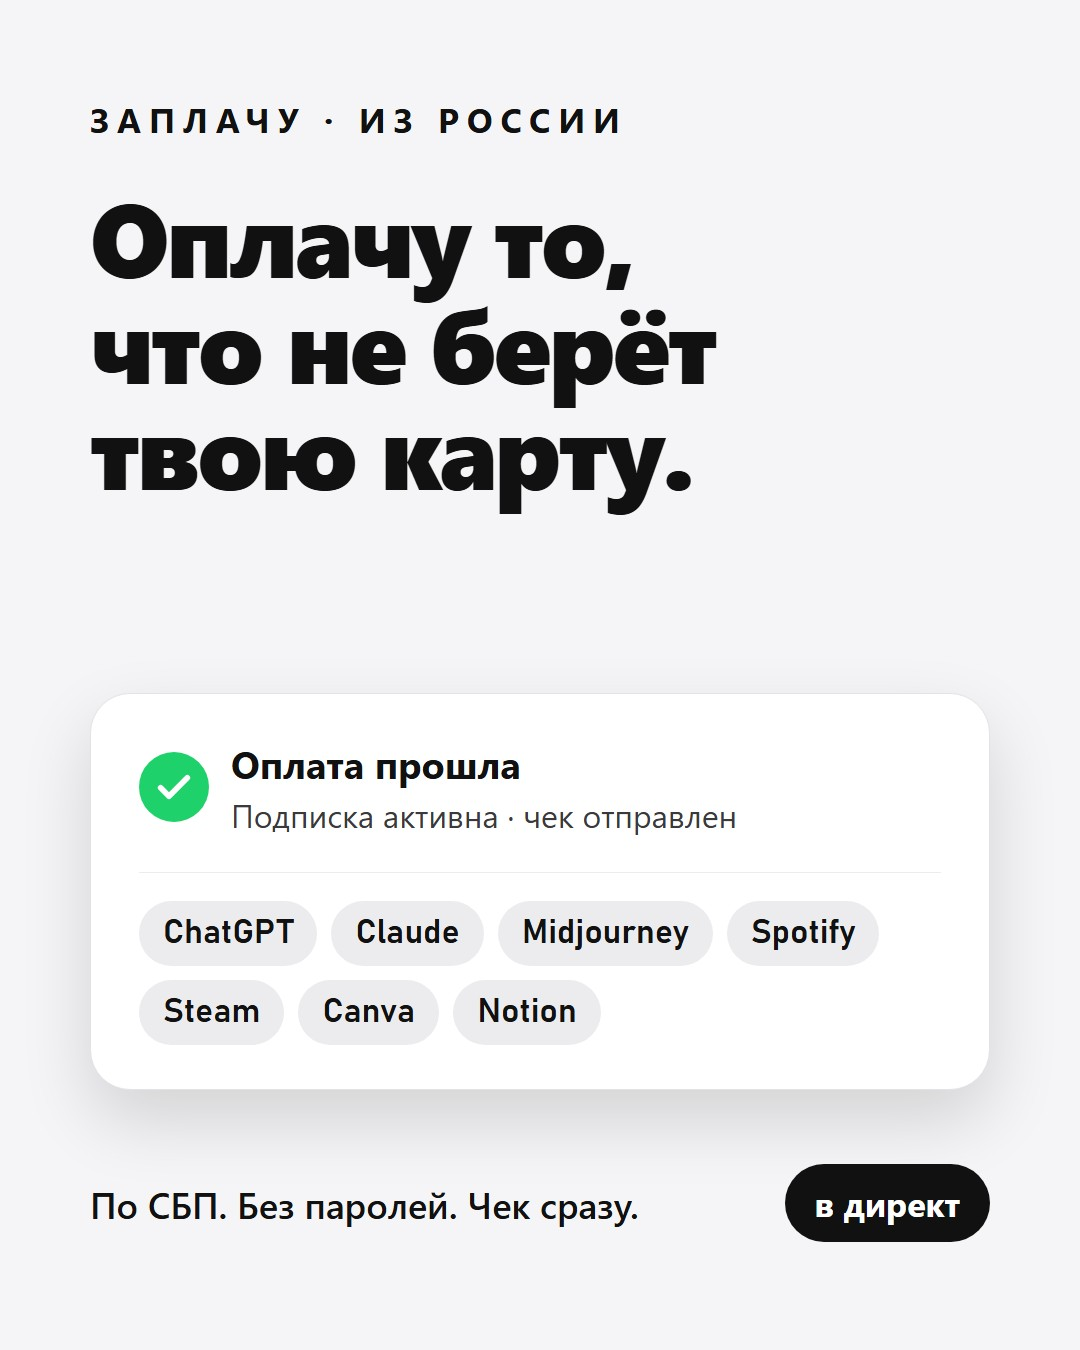
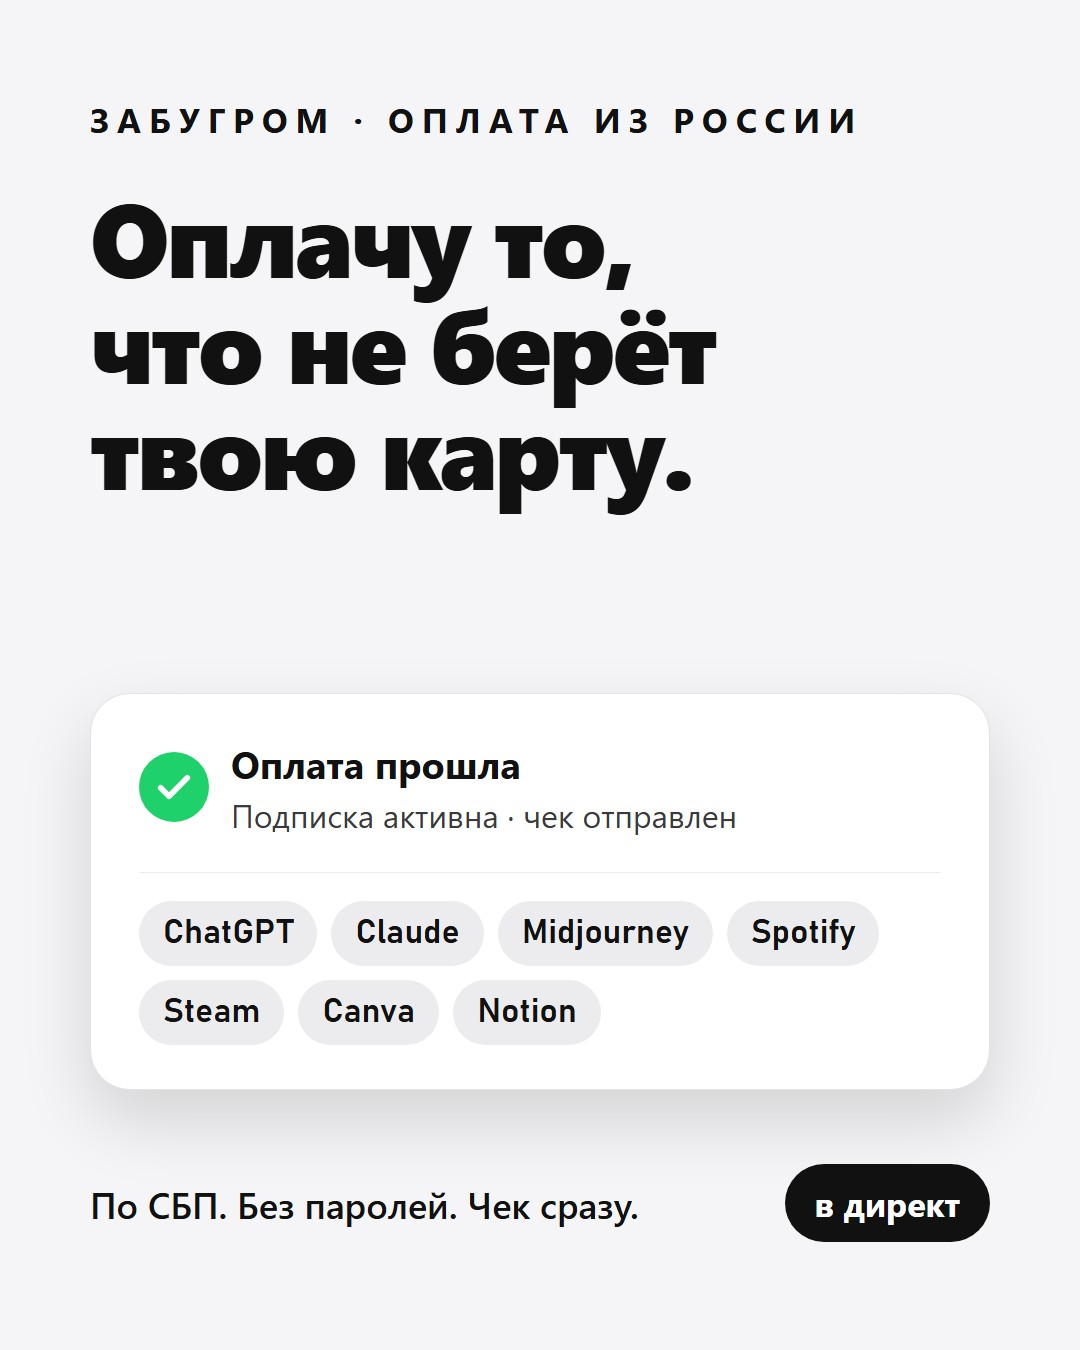
threads100: Заплачу -> Забугром

Changed region(s): [[0.3361, 0.0622, 0.7944, 0.1244], [0.1528, 0.0622, 0.3056, 0.1244]]

diff --git a/threads100/index.html b/threads100/index.html
@@ -28,7 +28,7 @@ pre{white-space:pre-wrap;word-wrap:break-word;font:inherit;font-size:16px;line-h
 .toast.on{opacity:1;transform:translate(-50%,0)}
 .reset{display:block;margin:30px auto 0;border:0;background:none;color:#8a8a8f;font:inherit;font-size:12px;text-decoration:underline;cursor:pointer}
 .pic{margin:14px 0 0}.pic img{display:block;width:100%;max-width:420px;border-radius:12px;background:#eee}.pic figcaption{display:flex;flex-wrap:wrap;gap:6px 14px;margin-top:8px;font-size:12px;color:#6e6e73}.pic .lb{text-transform:uppercase;letter-spacing:.08em;font-size:11px}.pic a{color:#111}.pic .ai{color:#b4562b}.pic .dl{font-weight:600}.bio{font-size:13px;color:#6e6e73;margin:0 0 16px;max-width:560px}.brand{display:grid;grid-template-columns:220px 260px 1fr;gap:24px;align-items:start;margin:8px 0 24px}.brand figure{margin:0}.brand img{display:block;width:100%;border-radius:12px}.brand .ava{border-radius:50%}.brand figcaption{font-size:12px;color:#6e6e73;margin-top:8px}.brand .dl{color:#111;font-weight:600}.bt .k{font-size:11px;letter-spacing:.1em;text-transform:uppercase;color:#6e6e73;margin:12px 0 4px}.bt .k:first-child{margin-top:0}.bt p{margin:0;font-size:14px;line-height:1.45;max-width:560px}.bt small{color:#6e6e73}.biop{margin:0 0 8px}.plan{margin:0 0 24px}.plan summary{cursor:pointer;font-weight:600;margin-bottom:10px}.plan table{border-collapse:collapse;width:100%;max-width:720px;font-size:13px}.plan td,.plan th{padding:6px 10px 6px 0;border-bottom:1px solid #e5e5ea;text-align:left;vertical-align:top}.plan th{font-size:11px;text-transform:uppercase;letter-spacing:.08em;color:#6e6e73}.plan a{color:#111}@media(max-width:760px){.brand{grid-template-columns:1fr 1fr}.brand .bt{grid-column:1/-1}}</style></head><body>
-<header><div class="top"><h1>Threads · посты</h1><div class="cnt">690 постов · 9 аккаунтов</div></div><nav><button class="tab" data-t="creepy">Минус второй<span>30</span></button><button class="tab" data-t="pay">Заплачу<span>30</span></button><button class="tab" data-t="car">Китаец с пробегом<span>30</span></button><button class="tab" data-t="popolam">Пополам<span>100</span></button><button class="tab" data-t="maya">Майя<span>100</span></button><button class="tab" data-t="studio">Fines Studio<span>100</span></button><button class="tab" data-t="personal">Личный<span>100</span></button><button class="tab" data-t="choiz">The Rude Store<span>100</span></button><button class="tab" data-t="gta">GTA VI<span>100</span></button></nav></header>
+<header><div class="top"><h1>Threads · посты</h1><div class="cnt">690 постов · 9 аккаунтов</div></div><nav><button class="tab" data-t="creepy">Минус второй<span>30</span></button><button class="tab" data-t="pay">Забугром<span>30</span></button><button class="tab" data-t="car">Китаец с пробегом<span>30</span></button><button class="tab" data-t="popolam">Пополам<span>100</span></button><button class="tab" data-t="maya">Майя<span>100</span></button><button class="tab" data-t="studio">Fines Studio<span>100</span></button><button class="tab" data-t="personal">Личный<span>100</span></button><button class="tab" data-t="choiz">The Rude Store<span>100</span></button><button class="tab" data-t="gta">GTA VI<span>100</span></button></nav></header>
 <main><section class="acc" data-t="creepy"><h2>Минус второй <small>@minus_vtoroy</small></h2><div class="brand"><figure><img src="brand/creepy_ava.jpg" class="ava" alt=""><figcaption>Аватарка 1080×1080 · <a class="dl" href="brand/creepy_ava.jpg" download>Скачать</a></figcaption></figure><figure><img src="brand/creepy_cover.jpg" class="cov" alt=""><figcaption>Первый пост-закреп 1080×1350 · <a class="dl" href="brand/creepy_cover.jpg" download>Скачать</a></figcaption></figure><div class="bt"><div class="k">Имя</div><p>Минус второй</p><div class="k">Ник</div><p>@minus_vtoroy <small>(если занят, добавь точку или _ в середину)</small></p><div class="k">Шапка</div><pre class="biop">Истории, после которых закрываешь дверь на два замка.
 Художественные. Но могли случиться с тобой.
 Новая — каждый вечер в 23:00.</pre><button class="cp cpb">Скопировать шапку</button><div class="k">Стиль</div><p>Чёрный, бетон, один красный акцент (#ff2a1a) — цифра «−2», как кнопка лифта в подземном паркинге. Фото: холодный свет, пустые подъезды, двери, лифты. Без людей и лиц.</p><div class="k">Ритм</div><p>1 пост в день, 23:00. Истории идут от сильных к слабым, каждые 3–4 дня вопрос аудитории. Длинные истории продолжать ответом в своей же ветке. На вопрос «это правда?» отвечать честно: история художественная.</p></div></div><details class="plan" open><summary>Контент-план на 30 дней (30 постов)</summary><table><tr><th>День</th><th>Время</th><th>Формат</th><th>Тема</th></tr><tr><td>1</td><td>23:00</td><td><b style="color:#ff2a1a">история</b></td><td><a href="#creepy-1">Сообщение от себя</a></td></tr><tr><td>2</td><td>23:00</td><td><b style="color:#ff2a1a">история</b></td><td><a href="#creepy-2">Глазок</a></td></tr><tr><td>3</td><td>23:00</td><td><b style="color:#ff2a1a">история</b></td><td><a href="#creepy-3">Чердак</a></td></tr><tr><td>4</td><td>23:00</td><td><b style="color:#0a84ff">вопрос</b></td><td><a href="#creepy-21">Ваша история</a></td></tr><tr><td>5</td><td>23:00</td><td><b style="color:#ff2a1a">история</b></td><td><a href="#creepy-4">Кладовка</a></td></tr><tr><td>6</td><td>23:00</td><td><b style="color:#ff2a1a">история</b></td><td><a href="#creepy-5">Ночная смена</a></td></tr><tr><td>7</td><td>23:00</td><td><b style="color:#0a84ff">вопрос</b></td><td><a href="#creepy-24">Опрос</a></td></tr><tr><td>8</td><td>23:00</td><td><b style="color:#ff2a1a">история</b></td><td><a href="#creepy-6">Звонок с камерой</a></td></tr><tr><td>9</td><td>23:00</td><td><b style="color:#ff2a1a">история</b></td><td><a href="#creepy-7">Вторая зубная щётка</a></td></tr><tr><td>10</td><td>23:00</td><td><b style="color:#0a84ff">вопрос</b></td><td><a href="#creepy-27">Пятница</a></td></tr><tr><td>11</td><td>23:00</td><td><b style="color:#ff2a1a">история</b></td><td><a href="#creepy-8">Сиделка</a></td></tr><tr><td>12</td><td>23:00</td><td><b style="color:#ff2a1a">история</b></td><td><a href="#creepy-9">Голосовое от мамы</a></td></tr><tr><td>13</td><td>23:00</td><td><b style="color:#ff2a1a">история</b></td><td><a href="#creepy-10">Миша</a></td></tr><tr><td>14</td><td>23:00</td><td><b style="color:#0a84ff">вопрос</b></td><td><a href="#creepy-29">Итоги недели</a></td></tr><tr><td>15</td><td>23:00</td><td><b style="color:#ff2a1a">история</b></td><td><a href="#creepy-11">Домофон</a></td></tr><tr><td>16</td><td>23:00</td><td><b style="color:#ff2a1a">история</b></td><td><a href="#creepy-12">Такси</a></td></tr><tr><td>17</td><td>23:00</td><td><b style="color:#ff2a1a">история</b></td><td><a href="#creepy-30">Продолжение по заявкам</a></td></tr><tr><td>18</td><td>23:00</td><td><b style="color:#ff2a1a">история</b></td><td><a href="#creepy-13">Радионяня</a></td></tr><tr><td>19</td><td>23:00</td><td><b style="color:#ff2a1a">история</b></td><td><a href="#creepy-14">Следы</a></td></tr><tr><td>20</td><td>23:00</td><td><b style="color:#ff2a1a">история</b></td><td><a href="#creepy-22">Тишина</a></td></tr><tr><td>21</td><td>23:00</td><td><b style="color:#ff2a1a">история</b></td><td><a href="#creepy-15">Пустой ник</a></td></tr><tr><td>22</td><td>23:00</td><td><b style="color:#ff2a1a">история</b></td><td><a href="#creepy-16">Лифт</a></td></tr><tr><td>23</td><td>23:00</td><td><b style="color:#ff2a1a">история</b></td><td><a href="#creepy-23">Объявление</a></td></tr><tr><td>24</td><td>23:00</td><td><b style="color:#ff2a1a">история</b></td><td><a href="#creepy-17">Горячая линия</a></td></tr><tr><td>25</td><td>23:00</td><td><b style="color:#ff2a1a">история</b></td><td><a href="#creepy-25">Фото на память</a></td></tr><tr><td>26</td><td>23:00</td><td><b style="color:#ff2a1a">история</b></td><td><a href="#creepy-18">Соседка по общаге</a></td></tr><tr><td>27</td><td>23:00</td><td><b style="color:#ff2a1a">история</b></td><td><a href="#creepy-26">Звонок бабушки</a></td></tr><tr><td>28</td><td>23:00</td><td><b style="color:#ff2a1a">история</b></td><td><a href="#creepy-19">Навигатор</a></td></tr><tr><td>29</td><td>23:00</td><td><b style="color:#ff2a1a">история</b></td><td><a href="#creepy-28">Лестница</a></td></tr><tr><td>30</td><td>23:00</td><td><b style="color:#ff2a1a">история</b></td><td><a href="#creepy-20">Вопрос аудитории</a></td></tr></table></details><article class="post" id="creepy-1"><div class="meta"><span>День 1 · 23:00</span><span>история</span><span>Сообщение от себя</span><span>347 симв.</span></div><pre>В 4 утра пришло сообщение в телеграме. Отправитель — мой номер. Текст: «Не оборачивайся».
@@ -214,7 +214,7 @@ pre{white-space:pre-wrap;word-wrap:break-word;font:inherit;font-size:16px;line-h
 
 Без призраков. То, после чего вы до сих пор проверяете замок перед сном или не ездите в лифте одни.
 
-Самые сильные истории с вашего разрешения разберу отдельными постами.</pre><figure class="pic"><img loading="lazy" src="img/creepy-20.jpg" alt=""><figcaption><span class="lb">Фото со стока</span><a href="https://pixabay.com/photos/padlock-locked-secured-lock-428549/" target="_blank" rel="noopener">Pixabay, автор jarmoluk ↗</a><a class="dl" href="img/creepy-20.jpg" download>Скачать</a></figcaption></figure><button class="cp">Скопировать</button></article></section><section class="acc" data-t="pay"><h2>Заплачу <small>@zaplachu.ru</small></h2><div class="brand"><figure><img src="brand/pay_ava.jpg" class="ava" alt=""><figcaption>Аватарка 1080×1080 · <a class="dl" href="brand/pay_ava.jpg" download>Скачать</a></figcaption></figure><figure><img src="brand/pay_cover.jpg" class="cov" alt=""><figcaption>Первый пост-закреп 1080×1350 · <a class="dl" href="brand/pay_cover.jpg" download>Скачать</a></figcaption></figure><div class="bt"><div class="k">Имя</div><p>Заплачу</p><div class="k">Ник</div><p>@zaplachu.ru <small>(если занят, добавь точку или _ в середину)</small></p><div class="k">Шапка</div><pre class="biop">Оплачиваю ChatGPT, Claude, Midjourney, Spotify, Steam и другие зарубежные сервисы из России.
+Самые сильные истории с вашего разрешения разберу отдельными постами.</pre><figure class="pic"><img loading="lazy" src="img/creepy-20.jpg" alt=""><figcaption><span class="lb">Фото со стока</span><a href="https://pixabay.com/photos/padlock-locked-secured-lock-428549/" target="_blank" rel="noopener">Pixabay, автор jarmoluk ↗</a><a class="dl" href="img/creepy-20.jpg" download>Скачать</a></figcaption></figure><button class="cp">Скопировать</button></article></section><section class="acc" data-t="pay"><h2>Забугром <small>@zabugrom.ru</small></h2><div class="brand"><figure><img src="brand/pay_ava.jpg" class="ava" alt=""><figcaption>Аватарка 1080×1080 · <a class="dl" href="brand/pay_ava.jpg" download>Скачать</a></figcaption></figure><figure><img src="brand/pay_cover.jpg" class="cov" alt=""><figcaption>Первый пост-закреп 1080×1350 · <a class="dl" href="brand/pay_cover.jpg" download>Скачать</a></figcaption></figure><div class="bt"><div class="k">Имя</div><p>Забугром</p><div class="k">Ник</div><p>@zabugrom.ru <small>(если занят, добавь точку или _ в середину)</small></p><div class="k">Шапка</div><pre class="biop">Оплачиваю ChatGPT, Claude, Midjourney, Spotify, Steam и другие зарубежные сервисы из России.
 По СБП, без паролей, чек сразу.
 Пиши в директ название сервиса.</pre><button class="cp cpb">Скопировать шапку</button><div class="k">Стиль</div><p>Светлый #f5f5f7 и чёрный, один зелёный акцент (#1fd16a) — «оплата прошла». Карта, галочка, интерфейс как в банке. Чисто, как Apple Pay, без денег-веером и эмодзи.</p><div class="k">Ритм</div><p>2 поста в день: 10:00 (польза, инструкция) и 19:30 (вопрос, доверие, оффер). Схема 60/30/10: 60% инструкции и защита от мошенников, 30% вопросы и кейсы, 10% прямой оффер. Закреп — пост-знакомство.</p></div></div><details class="plan" open><summary>Контент-план на 30 дней (30 постов)</summary><table><tr><th>День</th><th>Время</th><th>Формат</th><th>Тема</th></tr><tr><td>1</td><td>19:30</td><td><b style="color:#6e6e73">закреп</b></td><td><a href="#pay-1">Пост-знакомство</a></td></tr><tr><td>2</td><td>10:00</td><td><b style="color:#6e6e73">польза</b></td><td><a href="#pay-2">Почему карта РФ не проходит</a></td></tr><tr><td>3</td><td>19:30</td><td><b style="color:#6e6e73">польза</b></td><td><a href="#pay-3">Как не попасть на мошенников</a></td></tr><tr><td>4</td><td>10:00</td><td><b style="color:#0a84ff">вопрос</b></td><td><a href="#pay-4">Вопрос аудитории</a></td></tr><tr><td>5</td><td>19:30</td><td><b style="color:#6e6e73">инструкция</b></td><td><a href="#pay-5">ChatGPT Plus: как оплатить</a></td></tr><tr><td>6</td><td>10:00</td><td><b style="color:#6e6e73">польза</b></td><td><a href="#pay-6">Автопродление</a></td></tr><tr><td>7</td><td>19:30</td><td><b style="color:#6e6e73">список</b></td><td><a href="#pay-7">Что можно оплатить</a></td></tr><tr><td>8</td><td>10:00</td><td><b style="color:#6e6e73">польза</b></td><td><a href="#pay-8">Сравнение способов</a></td></tr><tr><td>9</td><td>19:30</td><td><b style="color:#6e6e73">доверие</b></td><td><a href="#pay-9">Отзыв-скрин</a></td></tr><tr><td>10</td><td>10:00</td><td><b style="color:#6e6e73">инструкция</b></td><td><a href="#pay-10">Claude Pro</a></td></tr><tr><td>11</td><td>19:30</td><td><b style="color:#6e6e73">инструкция</b></td><td><a href="#pay-11">Steam</a></td></tr><tr><td>12</td><td>10:00</td><td><b style="color:#0a84ff">вопрос</b></td><td><a href="#pay-12">Вопрос</a></td></tr><tr><td>13</td><td>19:30</td><td><b style="color:#6e6e73">польза</b></td><td><a href="#pay-13">Почему у всех разные цены</a></td></tr><tr><td>14</td><td>10:00</td><td><b style="color:#6e6e73">инструкция</b></td><td><a href="#pay-14">Midjourney</a></td></tr><tr><td>15</td><td>19:30</td><td><b style="color:#6e6e73">инструкция</b></td><td><a href="#pay-15">Spotify</a></td></tr><tr><td>16</td><td>10:00</td><td><b style="color:#6e6e73">доверие</b></td><td><a href="#pay-16">Кейс клиента</a></td></tr><tr><td>17</td><td>19:30</td><td><b style="color:#6e6e73">польза</b></td><td><a href="#pay-17">Мифы</a></td></tr><tr><td>18</td><td>10:00</td><td><b style="color:#6e6e73">список</b></td><td><a href="#pay-18">Подписки для работы</a></td></tr><tr><td>19</td><td>19:30</td><td><b style="color:#6e6e73">сезон</b></td><td><a href="#pay-19">Подарок</a></td></tr><tr><td>20</td><td>10:00</td><td><b style="color:#6e6e73">инструкция</b></td><td><a href="#pay-20">Что такое ссылка на оплату</a></td></tr><tr><td>21</td><td>19:30</td><td><b style="color:#0a84ff">вопрос</b></td><td><a href="#pay-21">Вопрос</a></td></tr><tr><td>22</td><td>10:00</td><td><b style="color:#6e6e73">инструкция</b></td><td><a href="#pay-22">App Store</a></td></tr><tr><td>23</td><td>19:30</td><td><b style="color:#6e6e73">доверие</b></td><td><a href="#pay-23">Возврат денег</a></td></tr><tr><td>24</td><td>10:00</td><td><b style="color:#6e6e73">польза</b></td><td><a href="#pay-24">Нейросеть бесплатно или платно</a></td></tr><tr><td>25</td><td>19:30</td><td><b style="color:#6e6e73">доверие</b></td><td><a href="#pay-25">Что я не делаю</a></td></tr><tr><td>26</td><td>10:00</td><td><b style="color:#0a84ff">вопрос</b></td><td><a href="#pay-26">Вопрос</a></td></tr><tr><td>27</td><td>19:30</td><td><b style="color:#6e6e73">польза</b></td><td><a href="#pay-27">Чек-лист перед оплатой</a></td></tr><tr><td>28</td><td>10:00</td><td><b style="color:#6e6e73">польза</b></td><td><a href="#pay-28">Годовая подписка</a></td></tr><tr><td>29</td><td>19:30</td><td><b style="color:#6e6e73">доверие</b></td><td><a href="#pay-29">Итоги месяца</a></td></tr><tr><td>30</td><td>10:00</td><td><b style="color:#1fd16a">оффер</b></td><td><a href="#pay-30">Призыв</a></td></tr></table></details><article class="post" id="pay-1"><div class="meta"><span>День 1 · 19:30</span><span>закреп</span><span>Пост-знакомство</span><span>404 симв.</span></div><pre>Оплачиваю зарубежные сервисы за тех, кто в России.
 
